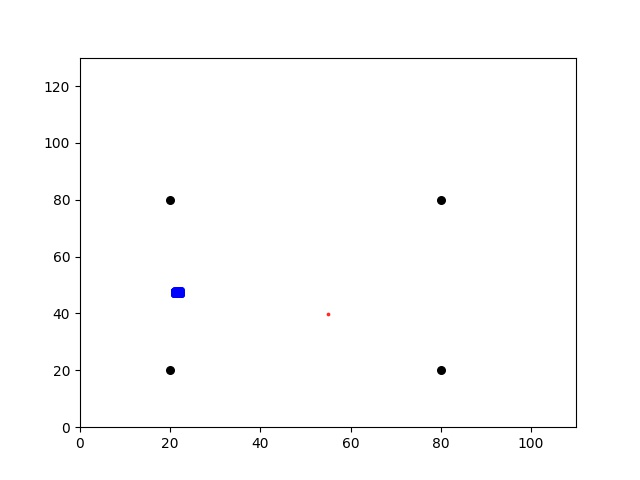
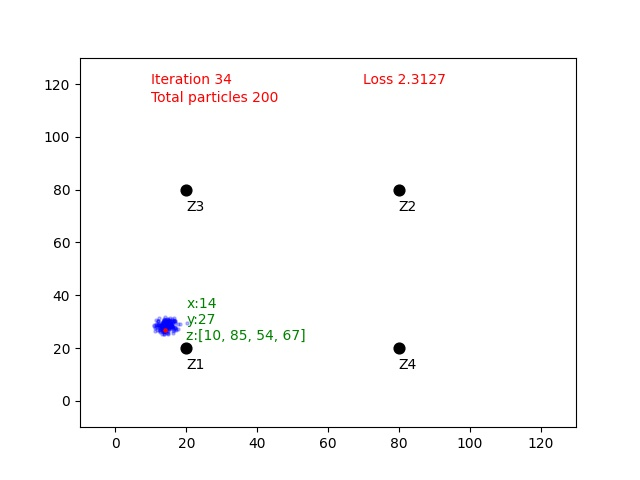
error coorection in sampling, removed orientation, improved visualization

diff --git a/robot.py b/robot.py
@@ -5,16 +5,13 @@ import matplotlib.pyplot as plt
 
 
 class Robot():
-
     def __init__(self, map: list, landmarks: list = None):
         self.map = map
         self.x_range = map[0]
         self.y_range = map[1]
         self.x_pos = random.uniform(0., self.x_range)
         self.y_pos = random.uniform(0., self.y_range)
-        self.orientation = 0.0 #random.uniform(0.0, 2.0*pi)
         self.forward_noise = 0.0
-        self.turn_noise = 0.0
         self.sense_noise = 0.0
 
         if landmarks:
@@ -23,26 +20,22 @@ class Robot():
                     'all landmarks should of length 2 containing [x_pos, y_pos]')
             else:
                 self.landmarks = landmarks
-
+        
     def set_position(self, pos: list):
         if pos[0] < 0. or pos[0] > self.x_range:
             raise ValueError('x position out of range')
         if pos[1] < 0. or pos[1] > self.y_range:
             raise ValueError('y position out of range')
-        if pos[2] < -2*pi or pos[2] > 2*pi:
-            raise ValueError('orientation should be between [-2pi...2pi]')
 
         self.x_pos = pos[0]
         self.y_pos = pos[1]
-        self.orientation = pos[2]
 
     def set_noise(self, noise: list):
         if any(n < 0. for n in noise):
             raise ValueError('noise cannot be negative')
 
         self.forward_noise = noise[0]
-        self.turn_noise = noise[1]
-        self.sense_noise = noise[2]
+        self.sense_noise = noise[1]
 
     def sense(self):
         sensor_z = []
@@ -53,20 +46,17 @@ class Robot():
 
         return sensor_z
 
-    def move(self, turn, forward):
-        if forward < 0.:
-            raise ValueError(
-                'forward cannot be negative, to move a robot 2 units backward, set forward=2 and turn=pi')
-        if turn < -2*pi or turn > 2*pi:
-            raise ValueError('orientation should be between [-2pi,2pi]')
+    def move(self, x_move, y_move):
+        if x_move < 0.0 or y_move < 0.0:
+            raise ValueError('moves cannot be negative')
 
-        self.orientation += turn + random.gauss(0.0, self.turn_noise)
-        self.orientation %= 2*pi
-        dist_moved = forward + random.gauss(0., self.forward_noise)
-        self.x_pos += cos(self.orientation) * dist_moved
-        self.x_pos %= self.x_range
-        self.y_pos += sin(self.orientation) * dist_moved
-        self.y_pos %= self.y_range
+        if x_move:
+            self.x_pos += x_move + random.gauss(0., self.forward_noise)
+            self.x_pos %= self.x_range
+
+        if y_move:
+            self.y_pos += y_move + random.gauss(0., self.forward_noise)
+            self.y_pos %= self.y_range
 
     def measurement_likelihood(self, sensor_z: list):
         if len(sensor_z) != len(self.landmarks):
@@ -85,8 +75,6 @@ class Robot():
             return self.x_pos
         elif index == 1:
             return self.y_pos
-        elif index == 2:
-            return self.orientation
         else:
             raise ValueError('invalid index')
 
@@ -99,10 +87,6 @@ class Robot():
             if val < 0. or val > self.y_range:
                 raise ValueError('y position out of range')
             self.y_pos = val
-        elif index == 2:
-            if val < -2*pi or val > 2*pi:
-                raise ValueError('orientation should be between [-2pi...2pi]')
-            self.orientation = val
         else:
             raise ValueError('invalid index')
 
@@ -113,24 +97,24 @@ class Robot():
         return self.x_pos == robot.x_pos and self.y_pos == robot.y_pos
 
     def __repr__(self):
-        return '[x_pos: {}  y_pos: {}  orient: {}]'.format(self.x_pos, self.y_pos, self.orientation)
+        return '[x_pos: {}  y_pos: {}]'.format(self.x_pos, self.y_pos)
 
 
 def plot_model(map, landmarks, robot, particles):
-    plt.scatter([lm[0] for lm in landmarks], [lm[1] for lm in landmarks], s=30, color="black")
+    plt.scatter([lm[0] for lm in landmarks], [lm[1] for lm in landmarks], s=60, color="black")
 
-    xcoords = [p.x_pos  + random.random() * random.choices([-1, 1], [1, 1])[0] for p in particles]
-    ycoords = [p.y_pos  + random.random() * random.choices([-1, 1], [1, 1])[0]for p in particles]
-    plt.scatter(xcoords, ycoords, s=5, alpha=0.5, color="blue")
+    xcoords = [p.x_pos for p in particles]
+    ycoords = [p.y_pos for p in particles]
+    plt.scatter(xcoords, ycoords, s=5, alpha=0.25, color="blue")
 
-    plt.scatter(robot.x_pos, robot.y_pos, s=3, alpha=0.75, color="red")
+    plt.scatter(robot.x_pos, robot.y_pos, s=5, alpha=1, color="red")
 
     ax = plt.gca()
-    ax.set_xlim([0, map[0]+10])
-    ax.set_ylim([0, map[1]+30])
+    ax.set_xlim([-10, map[0]+30])
+    ax.set_ylim([-10, map[1]+30])
 
 
-def eval(robot, particles, map):
+def loss(robot, particles, map):
     sum = 0.
     for p in particles:
         dx = ((p.x_pos - robot.x_pos + map[0]/2.) % map[0]) - map[0]/2.
@@ -138,44 +122,87 @@ def eval(robot, particles, map):
         err = sqrt(dx*dx + dy*dy)
         sum += err
 
-    return sum / len(particles)
+    return round(sum / len(particles), 4)
+
+
+def resample(particles, weights, map, landmarks, num_particles, randomness=0):
+    particles_indices = random.choices(range(len(particles)), weights, k=num_particles)
+
+    sampled_particles = []
+
+    for idx in particles_indices:
+        p = Robot(map, landmarks)
+        p.set_noise([0.0, 2.0])
+        p.x_pos = particles[idx].x_pos + random.gauss(0.0, randomness)
+        p.x_pos %= p.x_range
+        p.y_pos = particles[idx].y_pos  + random.gauss(0.0, randomness)
+        p.y_pos %= p.y_range
+        sampled_particles.append(p)
+
+    del particles
+
+    return sampled_particles
 
 
 def apply_particle_filter(map, landmarks, n_particles, n_iter):
     robot = Robot(map, landmarks)
-    # robot.set_noise([0.05, 0.05, 3]) # robot is noise free
+    robot.set_noise([0.0, 1.5])
 
+    robot.x_pos = 40
+    robot.y_pos = 50
+ 
     # initalize particles
     particles = []
     for i in range(n_particles):
         p = Robot(map, landmarks)
-        p.set_noise([0.0, 0.0, 0.001]) # particles measurements are noisy
+        p.set_noise([0.0, 2.0])
         particles.append(p)
 
     # run particle filter
     for iter in range(n_iter):
-        print(f"iteration {iter}: {eval(robot, particles, map)}")
+        print(f"iteration {iter}")
+
+        sensor_z = robot.sense()
 
         plot_model(map, landmarks, robot, particles)
+        
+        plt.annotate(f"Iteration {iter}", (10, 120), color="r")
+        plt.annotate(f"Total particles {n_particles}", (10, 113), color="r")
+        plt.annotate(f"Loss {loss(robot, particles, map)}", (70, 120), color="r")
+
+        plt.annotate(f"x:{round(robot.x_pos)}", (robot.x_pos+6, robot.y_pos+8), color="g")
+        plt.annotate(f"y:{round(robot.y_pos)}", (robot.x_pos+6, robot.y_pos+2), color="g")
+        plt.annotate(f"z:{[round(z) for z in sensor_z]}",(robot.x_pos+6, robot.y_pos-4),color="g")
+
+        for idx, lm in enumerate(landmarks):
+           plt.annotate(f"Z{idx+1}", (lm[0], lm[1]-8), color="black")
+
         plt.savefig(f"robot.jpg")
         plt.close()
 
-        robot.move(0., 3.)
-        sensor_z = robot.sense()
-        print(robot.x_pos, robot.y_pos, sensor_z)
-
         weights = []
         for p in particles:
-            p.move(0., 3.)
             weights.append(p.measurement_likelihood(sensor_z))
 
         w_norm = sum(weights)
-        weights = [w/(w_norm + 1e-8) for w in weights]
+        weights = [w/(w_norm + 1e-6) for w in weights]
 
         # resampling
-        particles = random.choices(particles, weights, k=n_particles)
+        if loss(robot, particles, map) < 2:
+            n_particles = max(50, n_particles - int(n_particles * 0.1))
+        else:
+            n_particles = min(200, n_particles + int(n_particles * 0.2))
 
-        time.sleep(2)
+        particles = resample(particles, weights, map, landmarks, num_particles=n_particles, randomness=1)
+
+        x_move = random.randint(1, 4)
+        y_move = random.randint(1, 4)
+        robot.move(x_move, y_move)
+
+        for p in particles:
+            p.move(x_move, y_move)
+
+        time.sleep(1)
 
     return robot, particles
 
@@ -183,6 +210,4 @@ def apply_particle_filter(map, landmarks, n_particles, n_iter):
 if __name__ == '__main__':
     map = [100, 100]
     landmarks = [[20., 20.], [80., 80], [20., 80.], [80., 20.]]
-    robot, particles = apply_particle_filter(map, landmarks, 1000, 25)
-
-    print(eval(robot, particles, map))
+    robot, particles = apply_particle_filter(map, landmarks, 100, n_iter=50)
